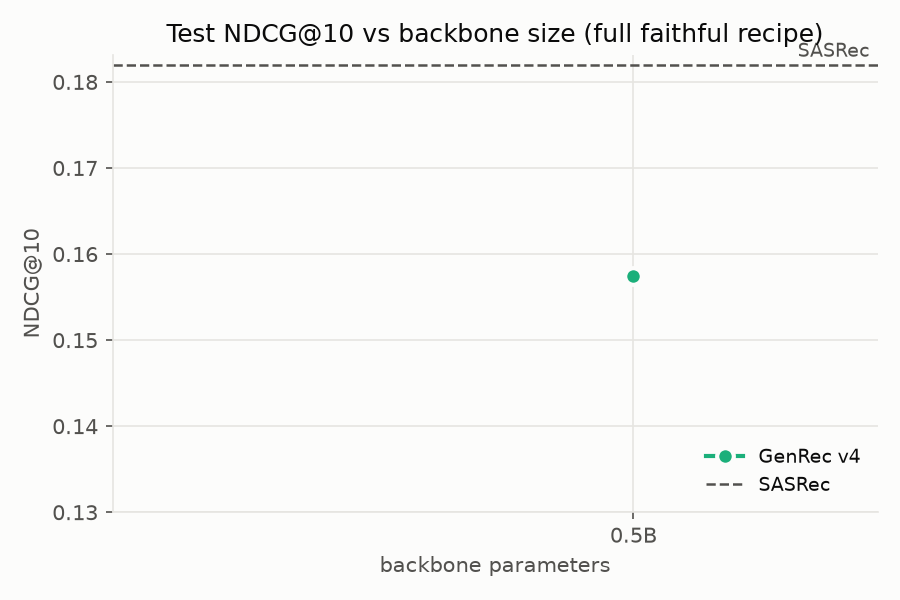
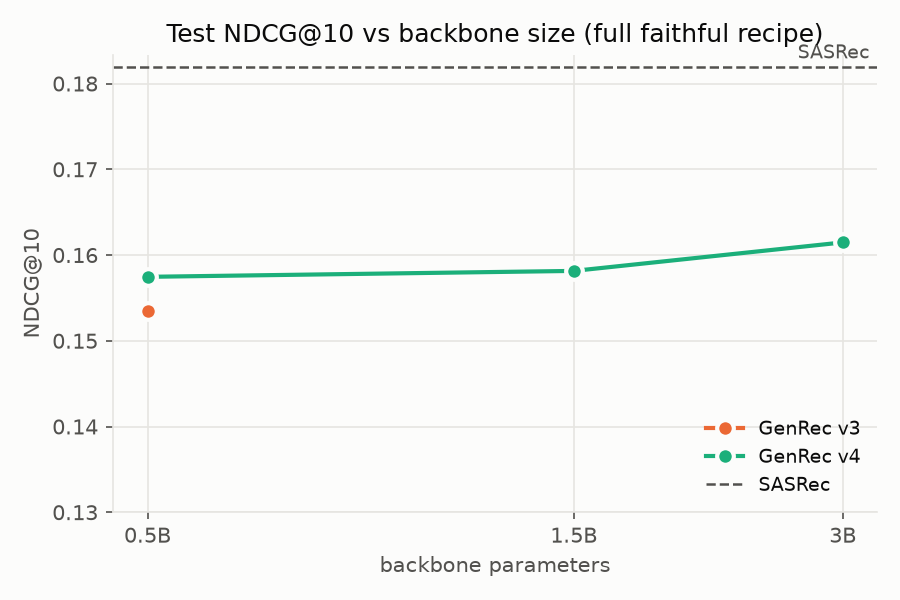
Add full-recipe results: 3B v4, 1.5B v4, 0.5B v3

diff --git a/docs/plan.md b/docs/plan.md
@@ -65,7 +65,7 @@ runs/      # (gitignored) <model>_<time>/log.txt, metrics.json, history.csv, *.p
 | 2 | Baselines: Popularity, SASRec (tuned) | ✅ SASRec 0.1820 |
 | 3 | GenRec pipeline + training stability (warmup, clip) | ✅ |
 | 4 | Development ablations: prompts, LM loss, rating weights, epochs | ✅ (history length ⏳ #29) |
-| 5 | Full-recipe grid (★): v3/v4/v5 × 0.5B/1.5B/3B + 7B v4 | 🔄 0.5B v4 ✅; #20–28 running/queued (~5 days Local) |
+| 5 | Full-recipe grid (★): v3/v4/v5 × 0.5B/1.5B/3B + 7B v4 | 🔄 4/10 done; #24–28 running/queued (~4 days Local) |
 | 6 | README: results + reproduce | ⬜ |
 
 ## Runs
@@ -90,11 +90,11 @@ runs/      # (gitignored) <model>_<time>/log.txt, metrics.json, history.csv, *.p
 | 17 | SASRec tuning: d × dropout × heads (5 runs, 200 ep) | ✅ baseline | M1 | 4 h | $0 | **0.1820** |
 | 18 | 1.5B v4, 8 ep | ✅ no gain vs 3 ep | Local | 31.8 h | $0 | 0.1558 |
 | 19 | ★ 0.5B v4 + LM loss | ✅ (+2.9% vs #14) | Local | 4.3 h | $0 | 0.1575 |
-| 20 | ★ 3B v4 + LM loss | 🔄 eval | Local | ~25 h | $0 | – |
-| 21 | ★ 1.5B v4 + LM loss | ⏳ queued | Local | ~12.5 h | $0 | – |
+| 20 | ★ 3B v4 + LM loss | ✅ | Local | 24.9 h | $0 | 0.1615 |
+| 21 | ★ 1.5B v4 + LM loss | ✅ | Local | 12.3 h | $0 | 0.1581 |
 | 22 | ★ **Final: 7B v4 + LM loss** | ⬜ ready | Cloud A100 80GB | ~9–10 h | ~$15–16 | – |
-| 23 | ★ 0.5B v3 + LM loss | ⏳ queued | Local | ~4 h | $0 | – |
-| 24 | ★ 0.5B v5 + LM loss | ⏳ queued | Local | ~6 h | $0 | – |
+| 23 | ★ 0.5B v3 + LM loss | ✅ | Local | 3.6 h | $0 | 0.1535 |
+| 24 | ★ 0.5B v5 + LM loss | 🔄 running | Local | ~6 h | $0 | – |
 | 25 | ★ 1.5B v3 + LM loss | ⏳ queued | Local | ~12 h | $0 | – |
 | 26 | ★ 1.5B v5 + LM loss | ⏳ queued | Local | ~17 h | $0 | – |
 | 27 | ★ 3B v3 + LM loss | ⏳ queued | Local | ~24 h | $0 | – |
@@ -115,9 +115,9 @@ runs/      # (gitignored) <model>_<time>/log.txt, metrics.json, history.csv, *.p
 ### Full-recipe grid ★ (test NDCG@10) — reported in results.md
 | Size \ prompt | v3 | v4 | v5 |
 |---|---|---|---|
-| 0.5B | #23 | 0.1575 (#19) | #24 |
-| 1.5B | #25 | #21 | #26 |
-| 3B | #27 | #20 | #28 |
+| 0.5B | 0.1535 (#23) | 0.1575 (#19) | #24 |
+| 1.5B | #25 | 0.1581 (#21) | #26 |
+| 3B | #27 | 0.1615 (#20) | #28 |
 | 7B | – | #22 | – |
 
 ### Development grid (ranking-only, no LM loss; test NDCG@10, 3 ep)

diff --git a/docs/results.md b/docs/results.md
@@ -7,9 +7,9 @@ All GenRec numbers use the **full faithful recipe**: LM loss β=0.1, 3 epochs, p
 ## Prompt × size (test NDCG@10)
 | Size \ prompt | v3 (+genres) | v4 (+user profile) | v5 (+synopsis) |
 |---|---|---|---|
-| 0.5B | ⏳ | 0.1575 | ⏳ |
-| 1.5B | ⏳ | ⏳ | ⏳ |
-| 3B | ⏳ | 🔄 | ⏳ |
+| 0.5B | 0.1535 | 0.1575 | 🔄 |
+| 1.5B | ⏳ | 0.1581 | ⏳ |
+| 3B | ⏳ | **0.1615** | ⏳ |
 | 7B | – | ⬜ | – |
 
 Baselines: **SASRec (tuned) 0.1820**, Popularity 0.0180.
@@ -19,7 +19,10 @@ Baselines: **SASRec (tuned) 0.1820**, Popularity 0.0180.
 |---|---|---|---|---|---|---|---|
 | Popularity | 0.0199 | 0.0369 | 0.0180 | −90% | – | – | – |
 | **SASRec (tuned)** | **0.1547** | **0.3209** | **0.1820** | – | 56.2 min | Apple M1 (MPS) | $0 |
+| GenRec 0.5B v3 | 0.1330 | 0.2677 | 0.1535 | −16% | 217.1 min | RTX 4060 Ti (Local) | $0 |
 | GenRec 0.5B v4 | 0.1353 | 0.2765 | 0.1575 | −13% | 247.1 min | RTX 4060 Ti (Local) | $0 |
+| GenRec 1.5B v4 | 0.1380 | 0.2714 | 0.1581 | −13% | 737.1 min | RTX 4060 Ti (Local) | $0 |
+| GenRec 3B v4 | 0.1404 | 0.2780 | 0.1615 | −11% | 1494.7 min | RTX 4060 Ti (Local) | $0 |
 
 ## Figures
 Generated by `uv run python plot.py` from `runs/` (full-recipe runs only).
